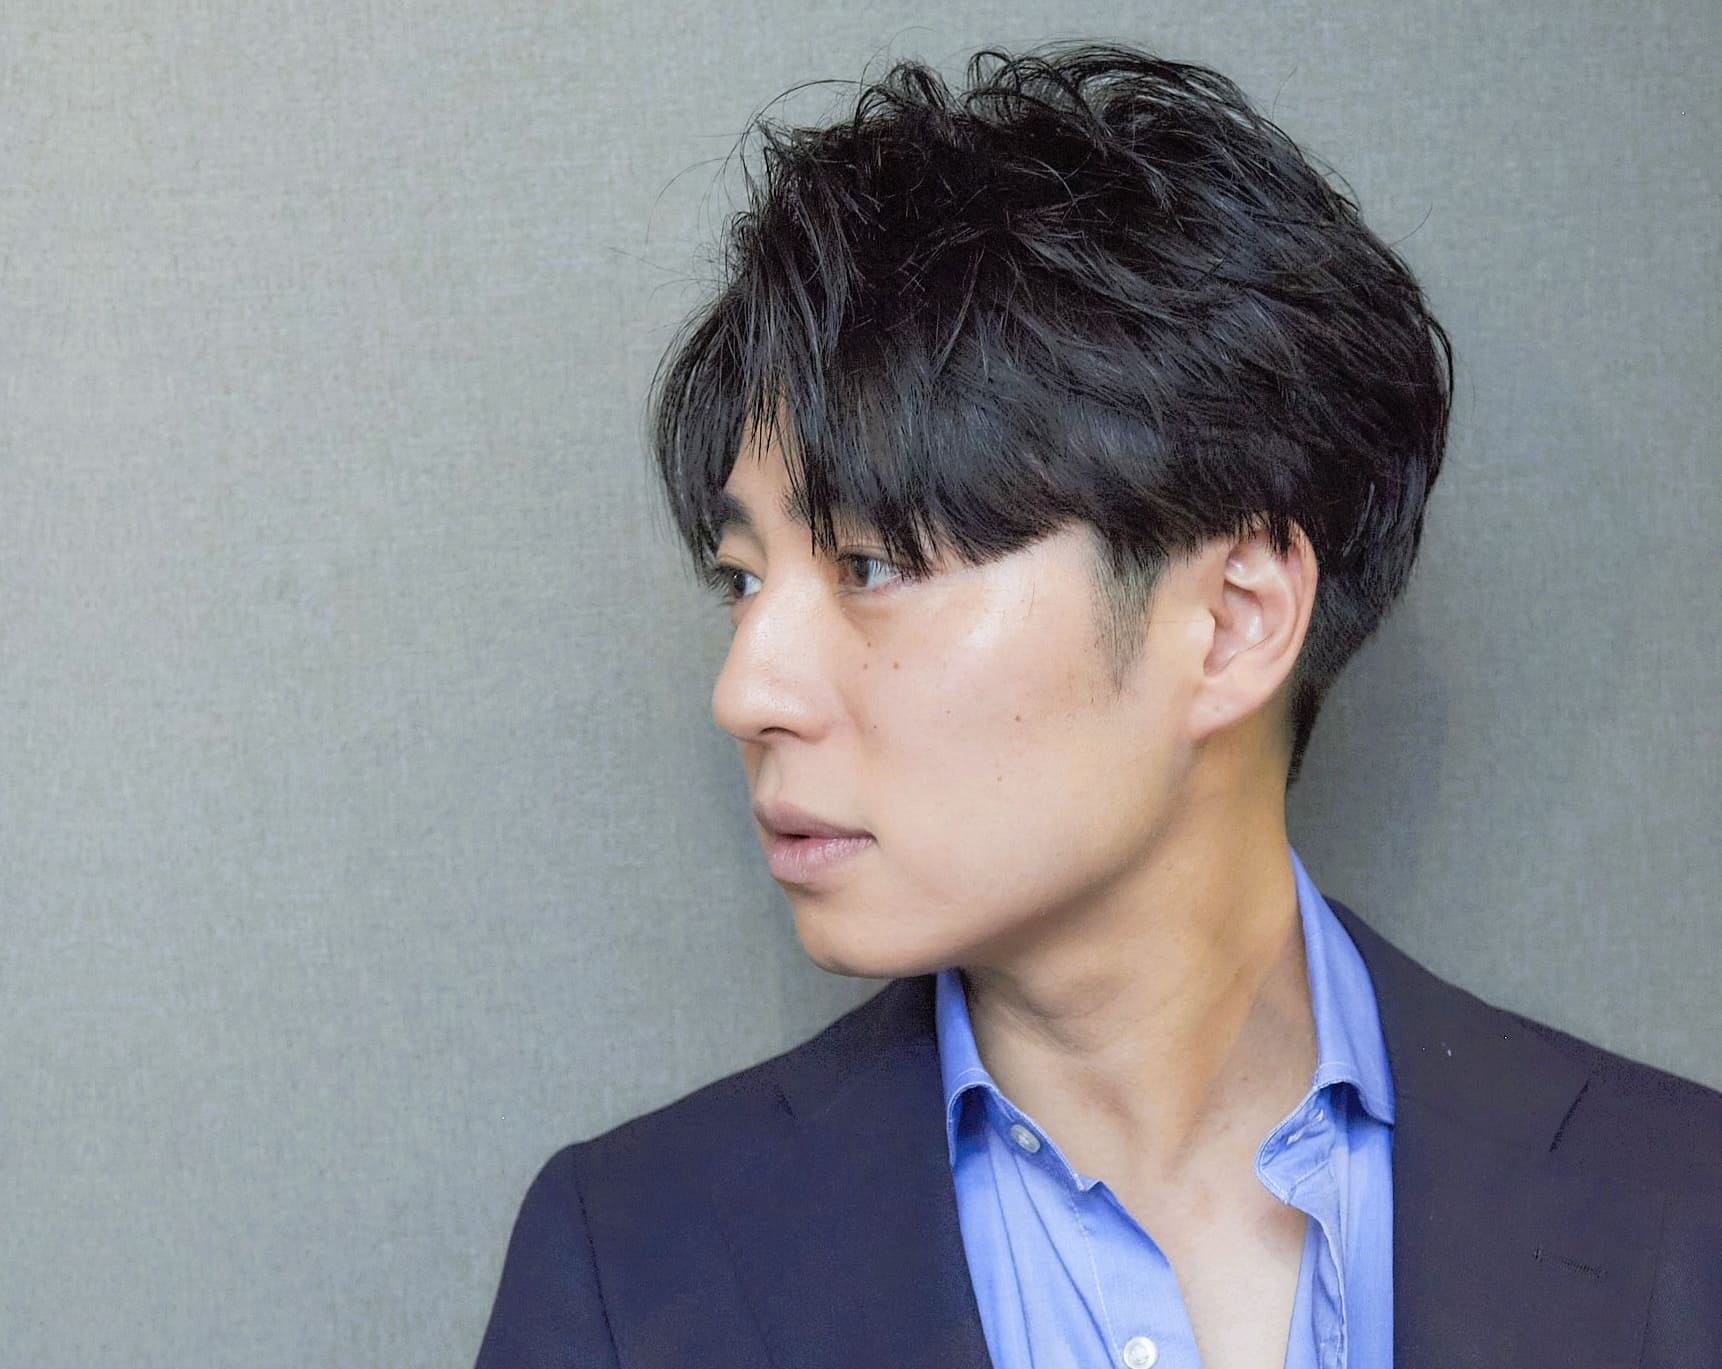
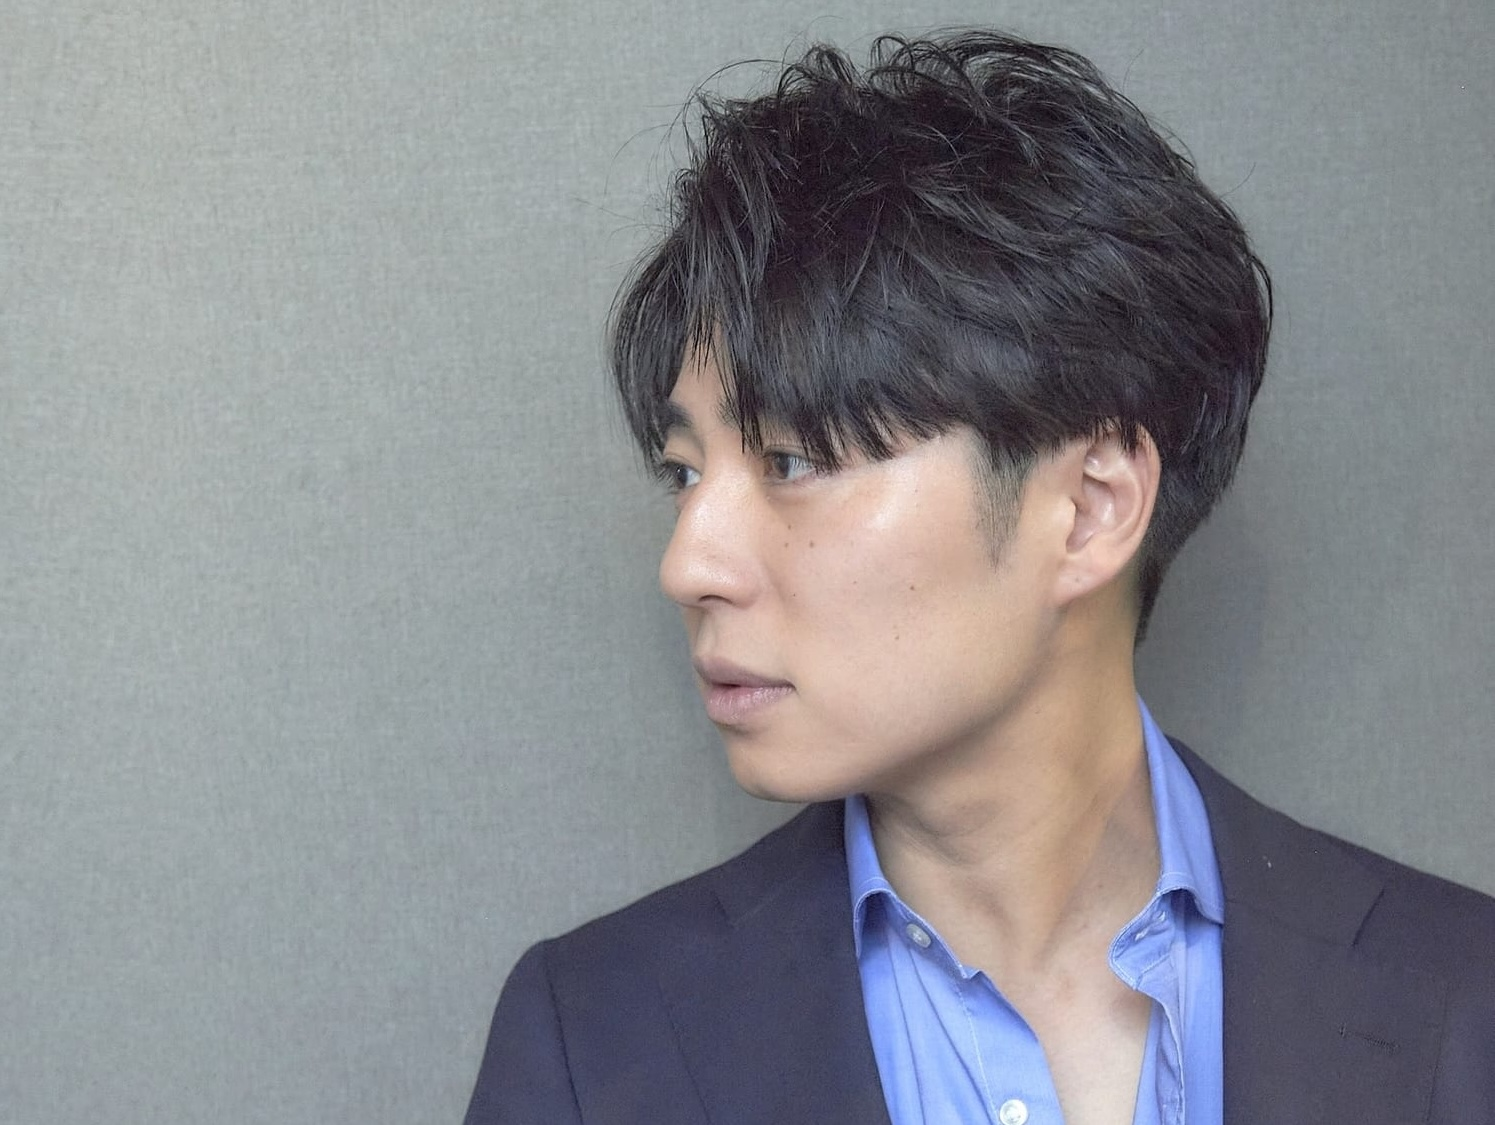
TOP 画像差し替え

diff --git a/data/hairstyle.data.ts b/data/hairstyle.data.ts
@@ -57,7 +57,7 @@ export const HAIR_MENUS: HairMenu[] = [
       title: "人気のメンズパーマ",
       items: ["ニュアンスパーマ", "フェザーパーマ", "デザインカール", "ソフトツイストスパイラル", "曲がるストレート"],
     },
-    photo: { src: "/img/model/model-5.jpg", width: 1722, height: 1369, position: "75% 15%" },
+    photo: { src: "/img/model/model-5.jpg", width: 1495, height: 1125, position: "70% 0%" },
     alt: "メンズパーマのスタイル例",
   },
   {
